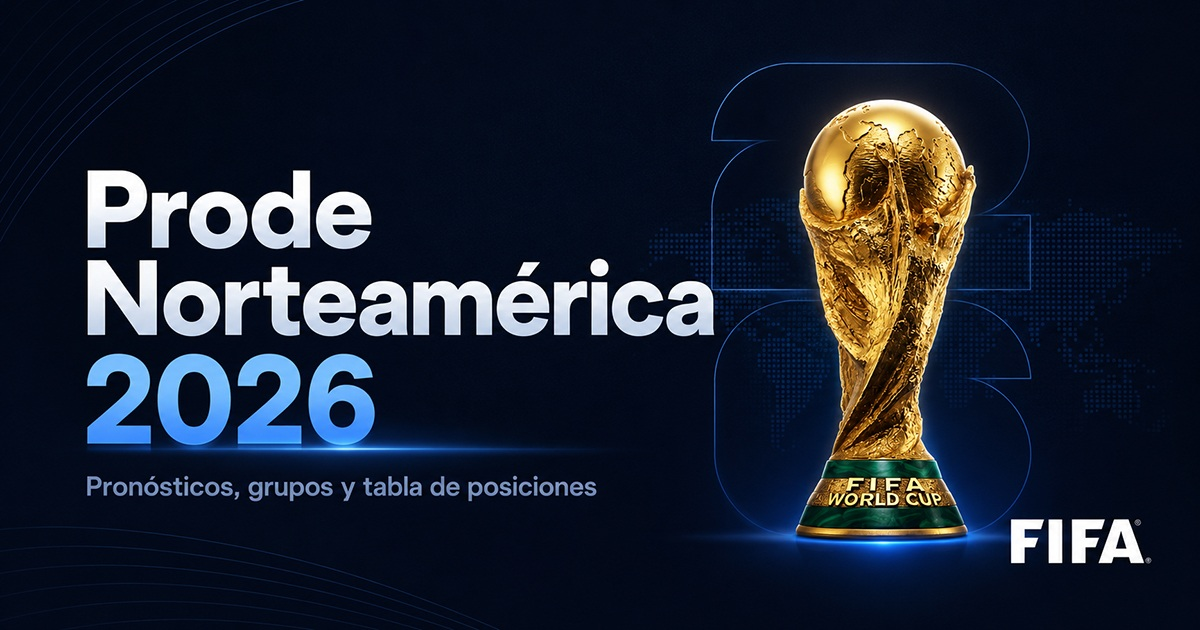
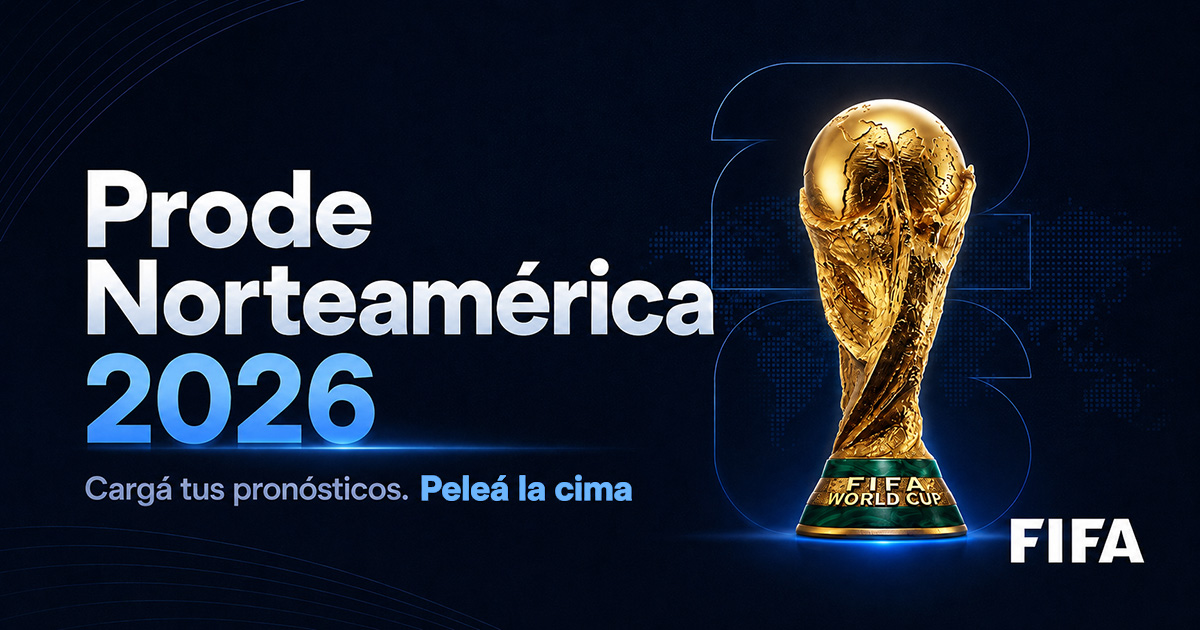
Actualizados mensajes meta en index.html y actualizada la og-image con una bajada distinta.

diff --git a/index.html b/index.html
@@ -13,7 +13,7 @@
 
     <meta
       name="description"
-      content="Unite al Prode Norteamérica 2026, cargá tus pronósticos y competí con tus amigos durante todo el torneo."
+      content="Cargá tus pronósticos y competí en el Prode Norteamérica 2026."
     />
 
     <!-- Open Graph / WhatsApp / Facebook -->
@@ -22,7 +22,7 @@
     <meta property="og:title" content="Unite al Prode Norteamérica 2026" />
     <meta
       property="og:description"
-      content="Cargá tus pronósticos, seguí los resultados y competí en la tabla de posiciones con tus grupos."
+      content="Cargá tus pronósticos y competí en el Prode Norteamérica 2026."
     />
     <meta
       property="og:image"
@@ -32,7 +32,7 @@
     <meta property="og:image:height" content="630" />
     <meta
       property="og:image:alt"
-      content="Prode Norteamérica 2026 - Pronósticos, grupos y tabla de posiciones"
+      content="Prode Norteamérica 2026"
     />
     <meta
       property="og:url"
@@ -44,7 +44,7 @@
     <meta name="twitter:title" content="Unite al Prode Norteamérica 2026" />
     <meta
       name="twitter:description"
-      content="Cargá tus pronósticos, seguí los resultados y competí en la tabla de posiciones con tus grupos."
+      content="Cargá tus pronósticos y competí en el Prode Norteamérica 2026."
     />
     <meta
       name="twitter:image"
@@ -52,7 +52,7 @@
     />
     <meta
       name="twitter:image:alt"
-      content="Prode Norteamérica 2026 - Pronósticos, grupos y tabla de posiciones"
+      content="Prode Norteamérica 2026"
     />
   </head>
 
